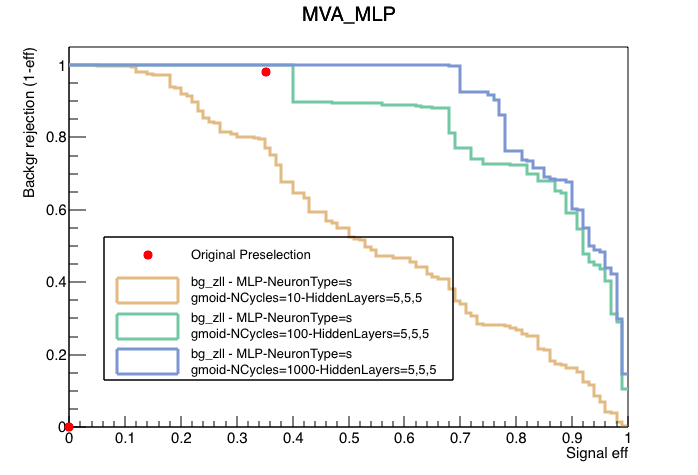
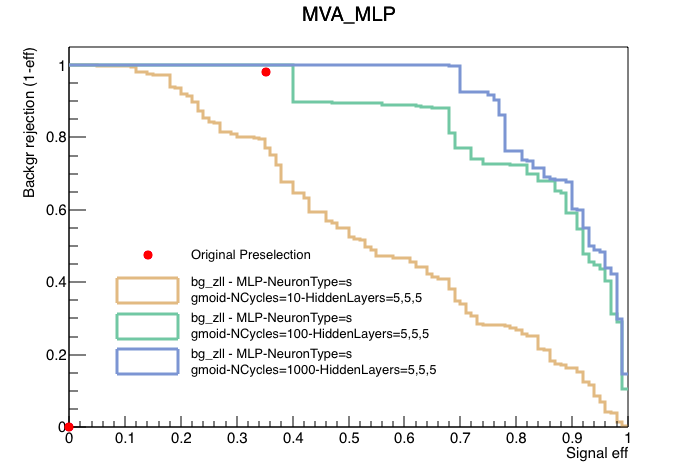
fixed bug

Changed region(s): [[0.1504, 0.7958, 0.6318, 0.8253], [0.1504, 0.4716, 0.6318, 0.5011]]

diff --git a/src/data_card.cpp b/src/data_card.cpp
@@ -33,7 +33,7 @@ std::vector<double> DataCard::get_rates(DataChain* data, std::vector<DataChain*>
                                  Variable* var, bool with_cut, std::vector<Variable*>* variables, std::vector<double> bg_mc_weights)
 {
   double rates[bg_chains.size() + 1];
-  TH1F* signal_histo = HistoPlot::build_1d_histo(signal_chain, var, with_cut, true, "goff", variables);
+  TH1F* signal_histo = HistoPlot::build_1d_histo(signal_chain, var, with_cut, false, "goff", variables);
   rates[0] = HistoPlot::get_histo_integral(signal_histo, with_cut, var);
 
   for(int i = 0; i < bg_chains.size();i++)
@@ -93,7 +93,7 @@ std::string DataCard::kmax_string(int kmax)
 
 std::string DataCard::bin_header_string()
 {
-	 return "bin 1 \n";
+	 return "bin c1 \n";
 }
 
 std::string DataCard::bin_observation_string(int nbins)
@@ -112,7 +112,7 @@ std::string DataCard::bin_grid_line(int cols)
   std::string bin_grid_str = "bin";
 	 for (int i = 0; i < cols; i++)
   {
-    bin_grid_str += "   1";
+    bin_grid_str += "   c1";
   }
   bin_grid_str += " \n";
 
@@ -241,7 +241,7 @@ std::vector<double> DataCard::get_zeros(int size)
 
 std::string DataCard::no_shape_line()
 {
-  return "shapes *    ch1  FAKE \n";
+  return "shapes *    c1  FAKE \n";
 }
 
 void DataCard::create_datacard(DataChain* data_chain, DataChain* signal_chain, std::vector<DataChain*> bg_chains,

diff --git a/src/roc_curves.cpp b/src/roc_curves.cpp
@@ -88,7 +88,6 @@ void RocCurves::style_legend(TLegend* legend)
 	 legend->SetTextSize(0.03);
 	 legend->SetBorderSize(0);
 	 legend->SetFillStyle(0);
-	 legend->SetBorderSize(1);
 }
 
 
